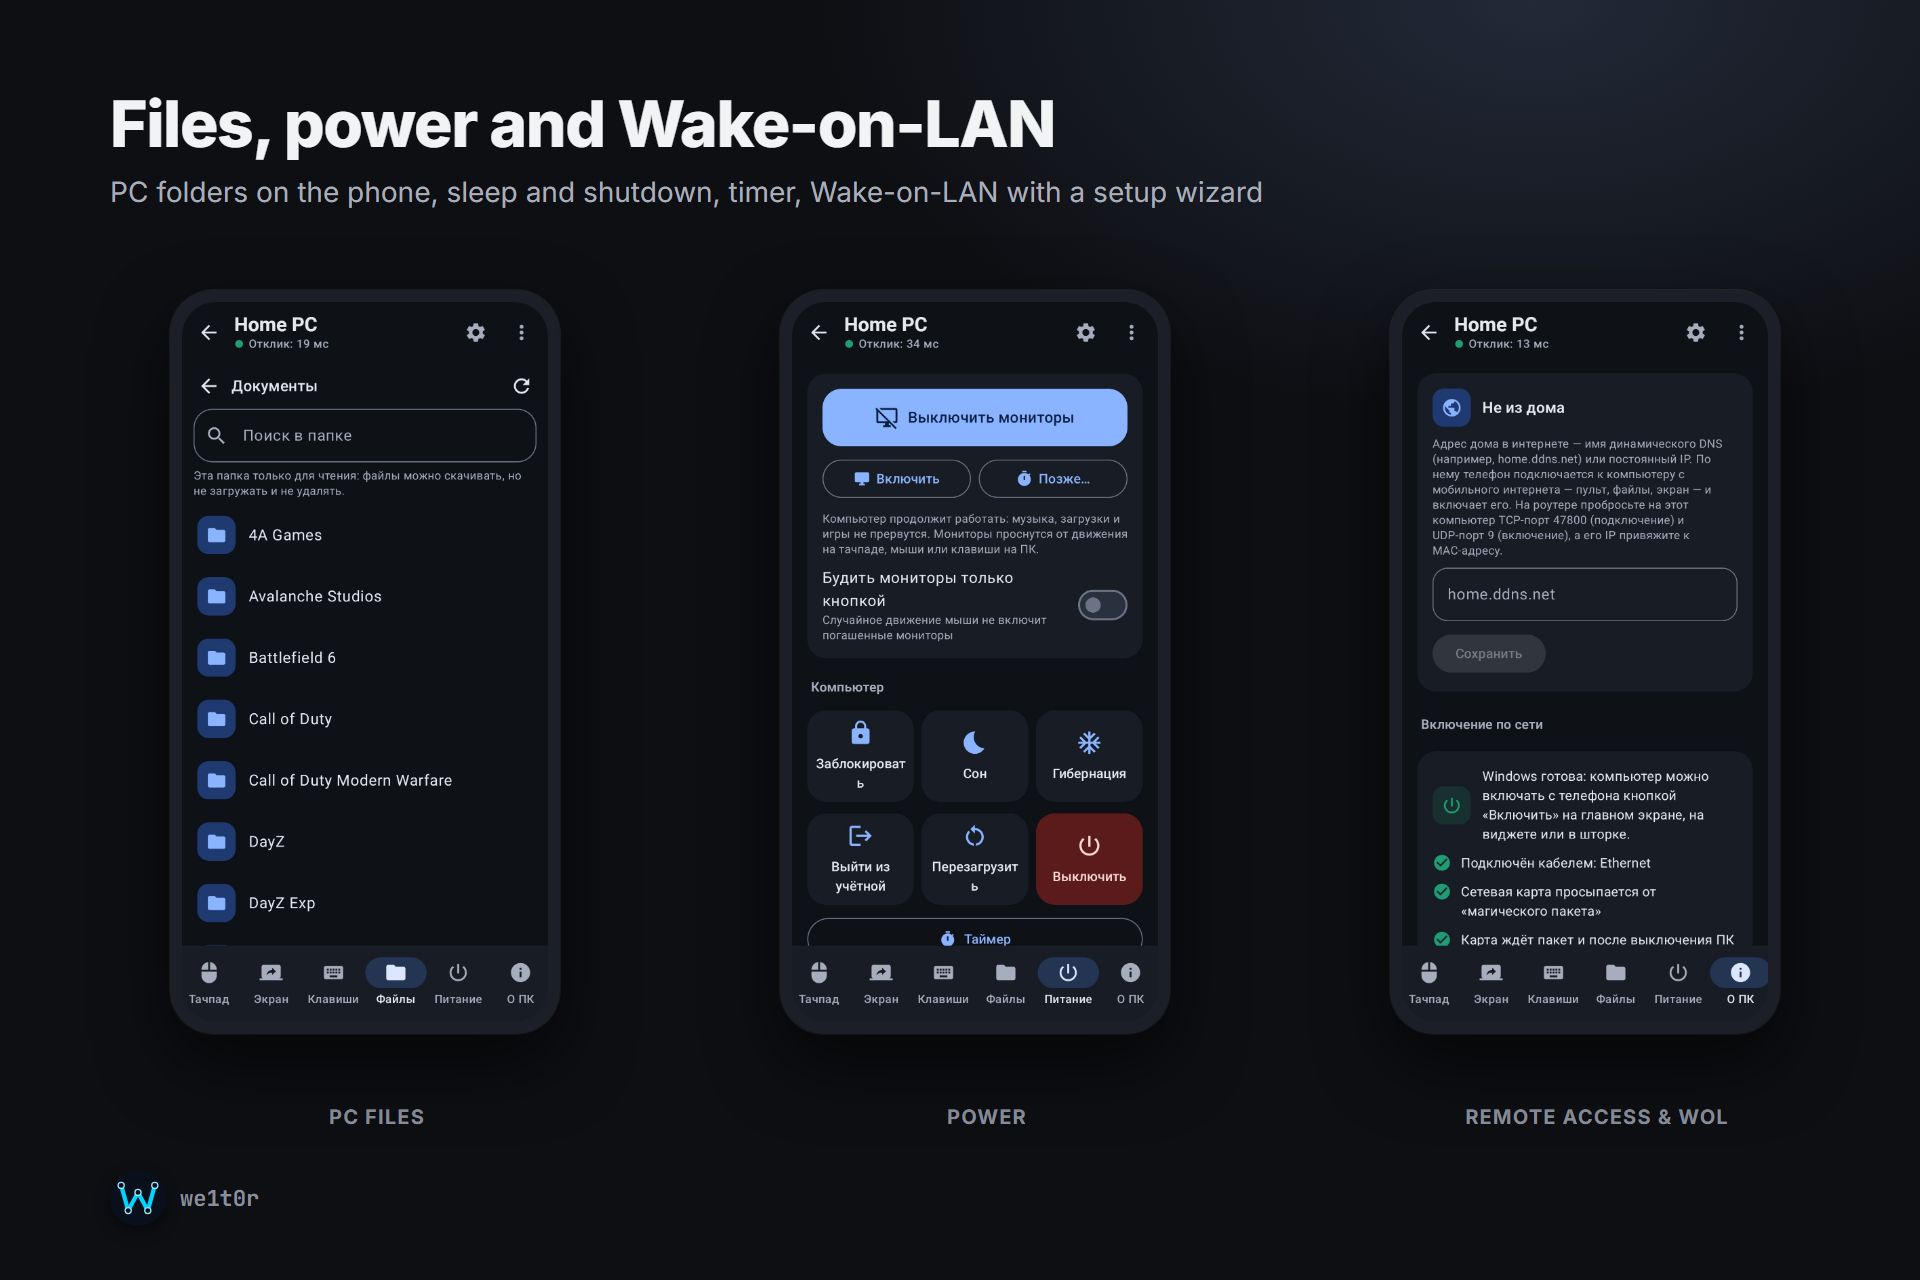
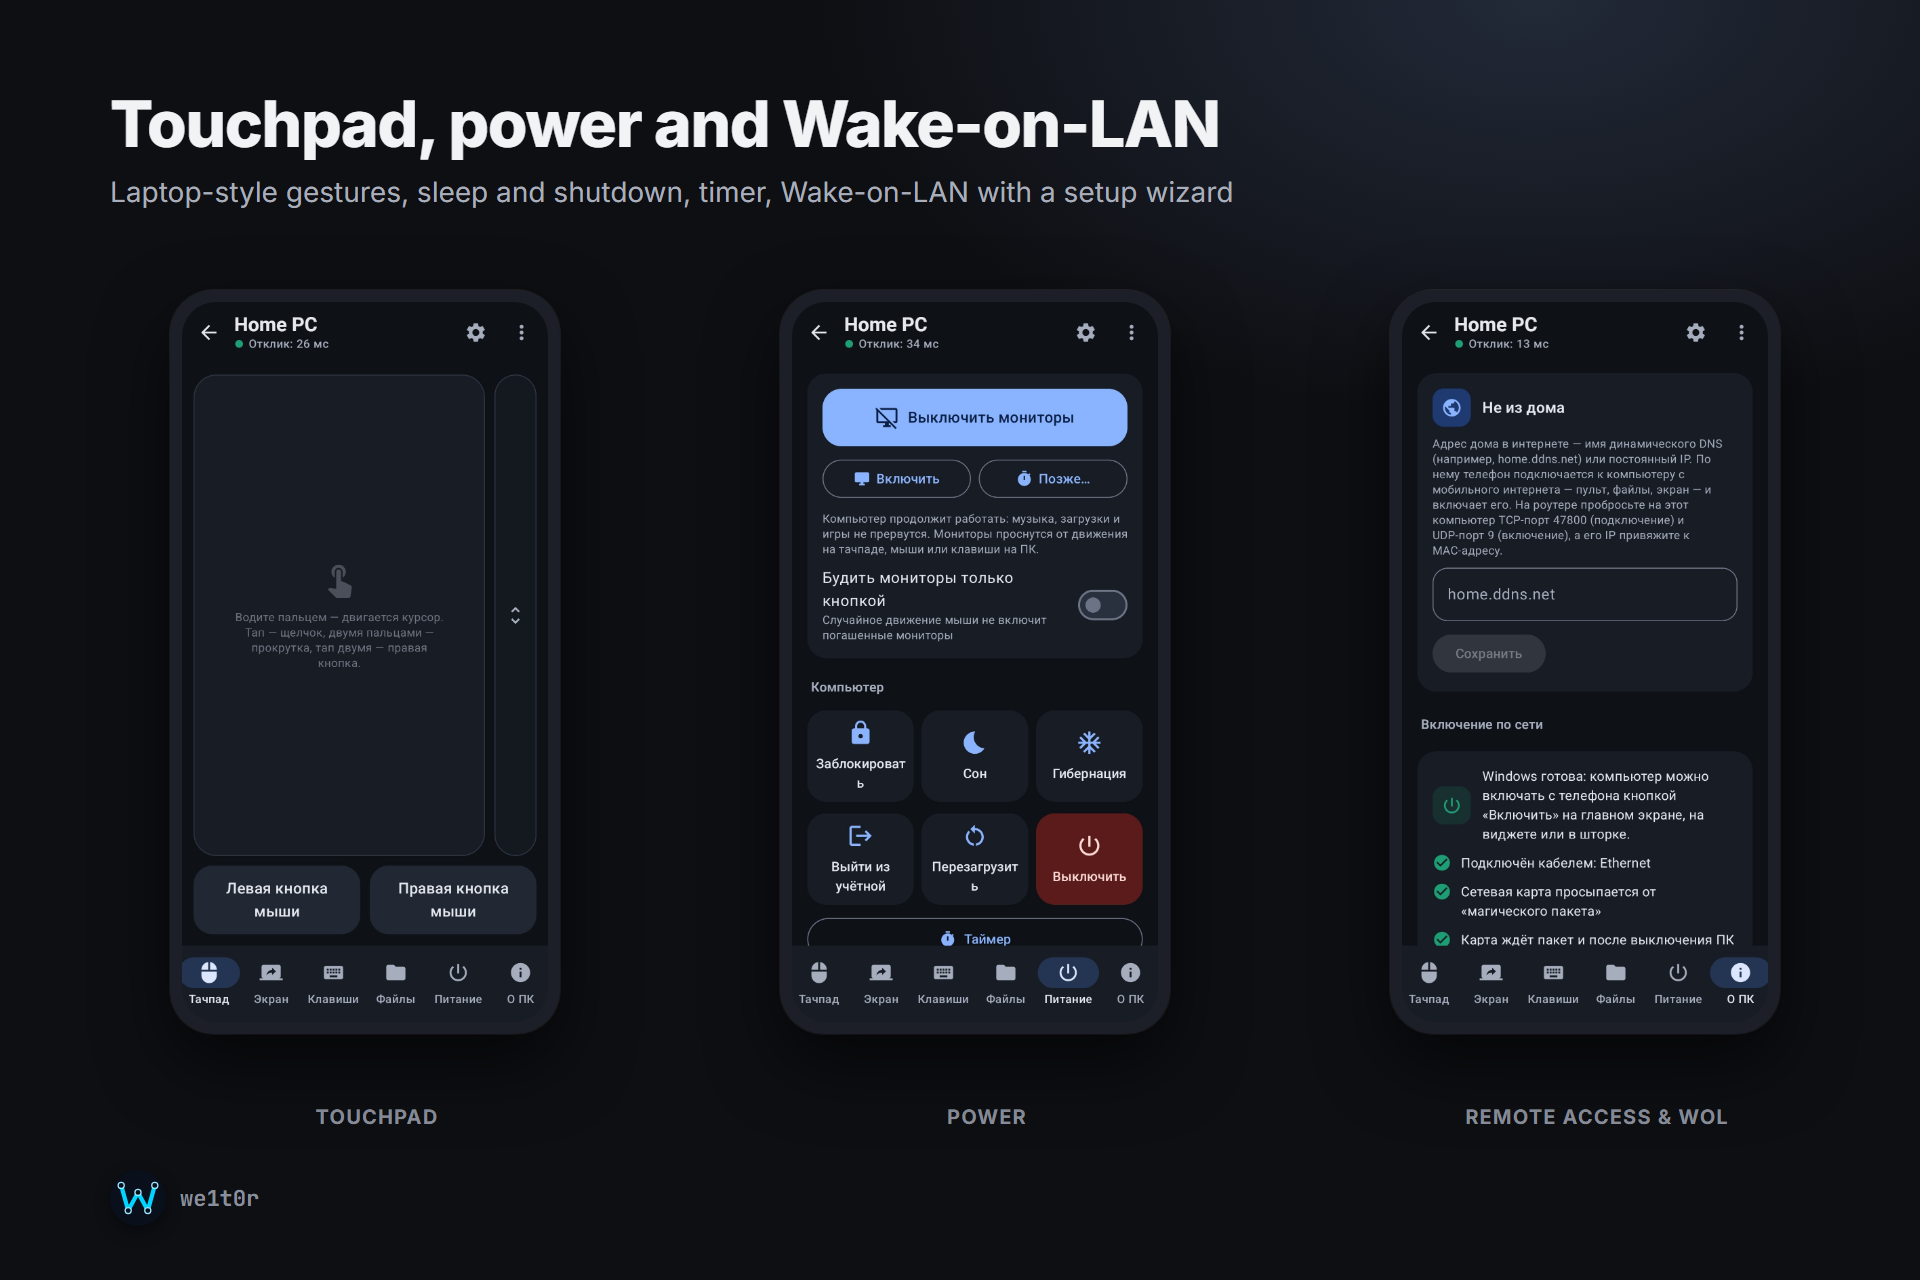
README: touchpad instead of the repeated files screen on the power card

diff --git a/README.md b/README.md
@@ -30,7 +30,7 @@
 ![Экран компьютера на телефоне](docs/images/screen.png)
 ![Печать и горячие клавиши](docs/images/keys.png)
 ![Файлы в обе стороны](docs/images/files.png)
-![Файлы, питание и включение по сети](docs/images/power.png)
+![Тачпад, питание и включение по сети](docs/images/power.png)
 
 ## Установка
 

diff --git a/README.en.md b/README.en.md
@@ -32,7 +32,7 @@ The screenshots show the app in Russian; with an English phone language it is in
 ![Your PC screen on the phone](docs/images/screen-en.png)
 ![Typing and hotkeys](docs/images/keys-en.png)
 ![Files both ways](docs/images/files-en.png)
-![Files, power and Wake-on-LAN](docs/images/power-en.png)
+![Touchpad, power and Wake-on-LAN](docs/images/power-en.png)
 
 ## Installation
 
